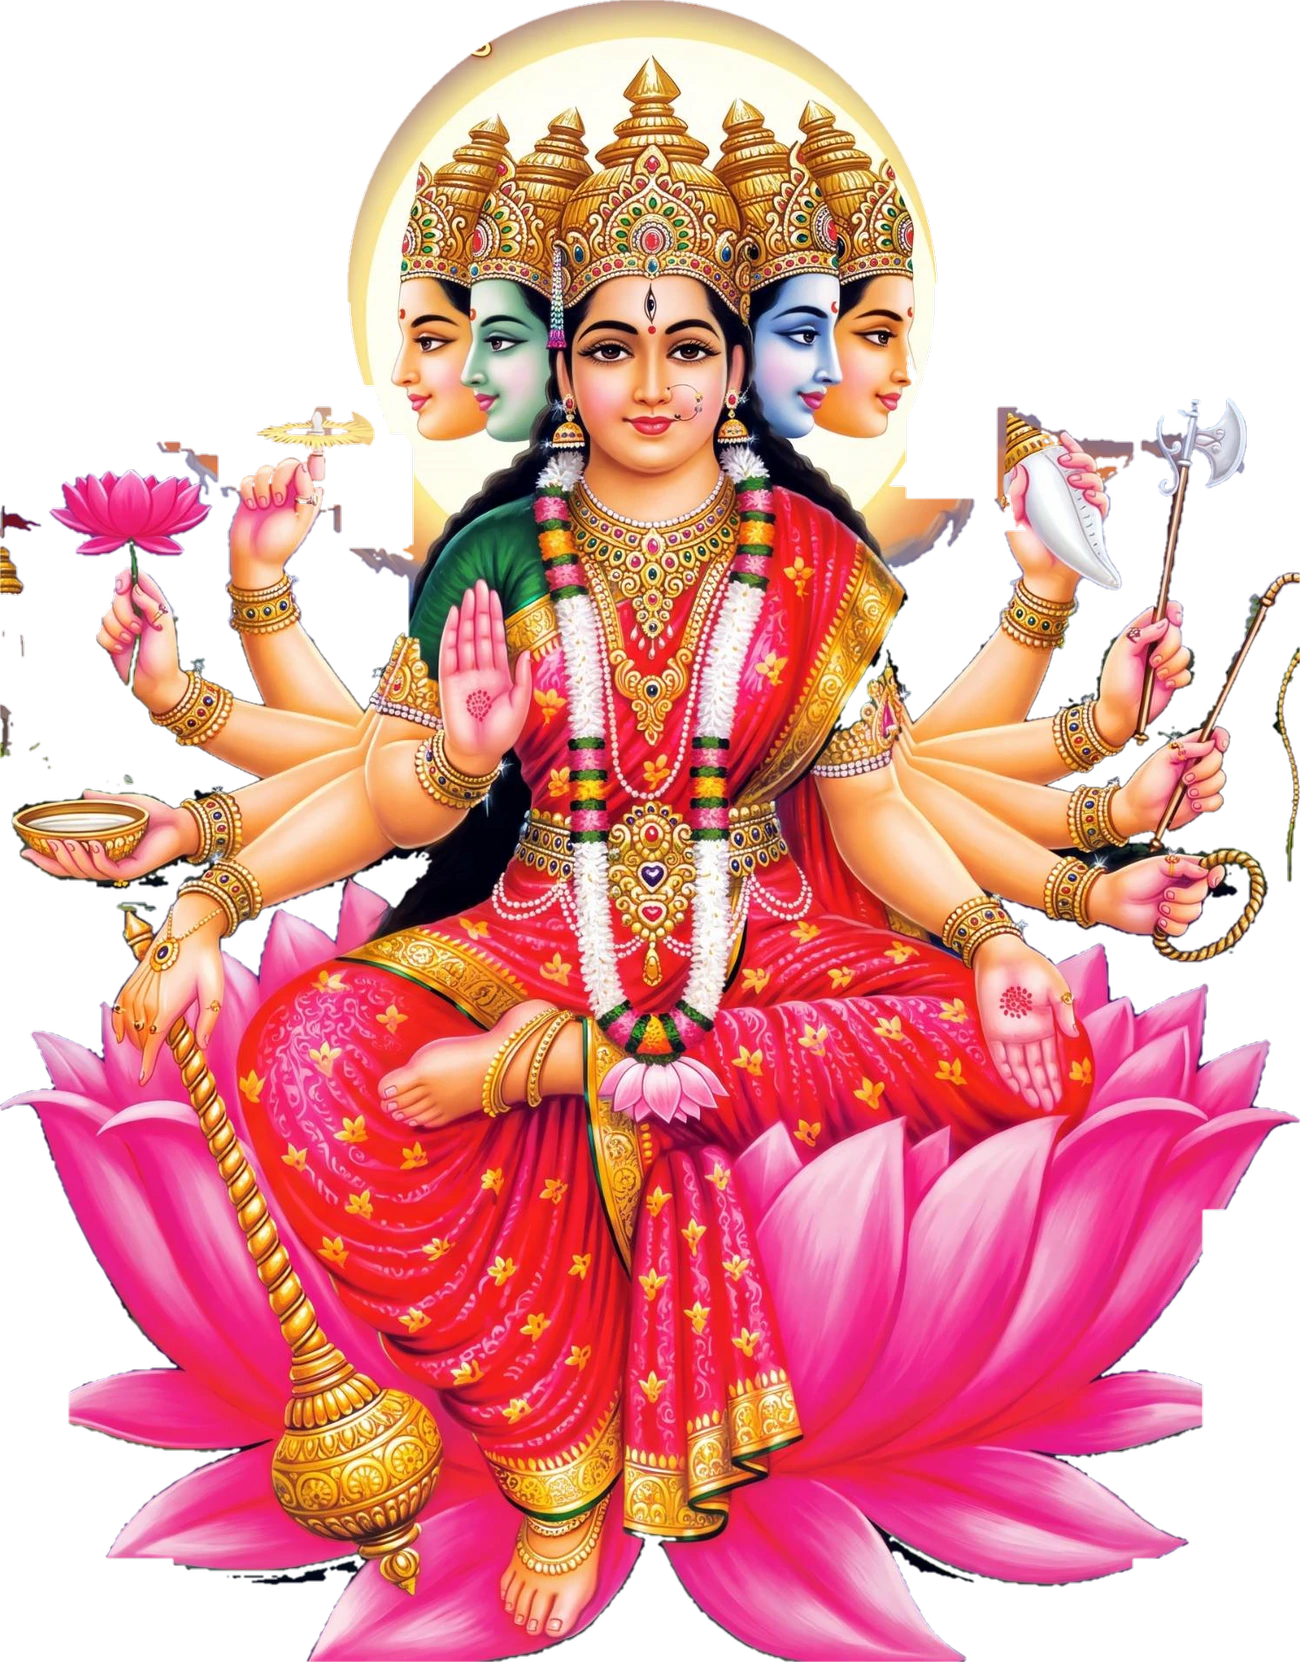
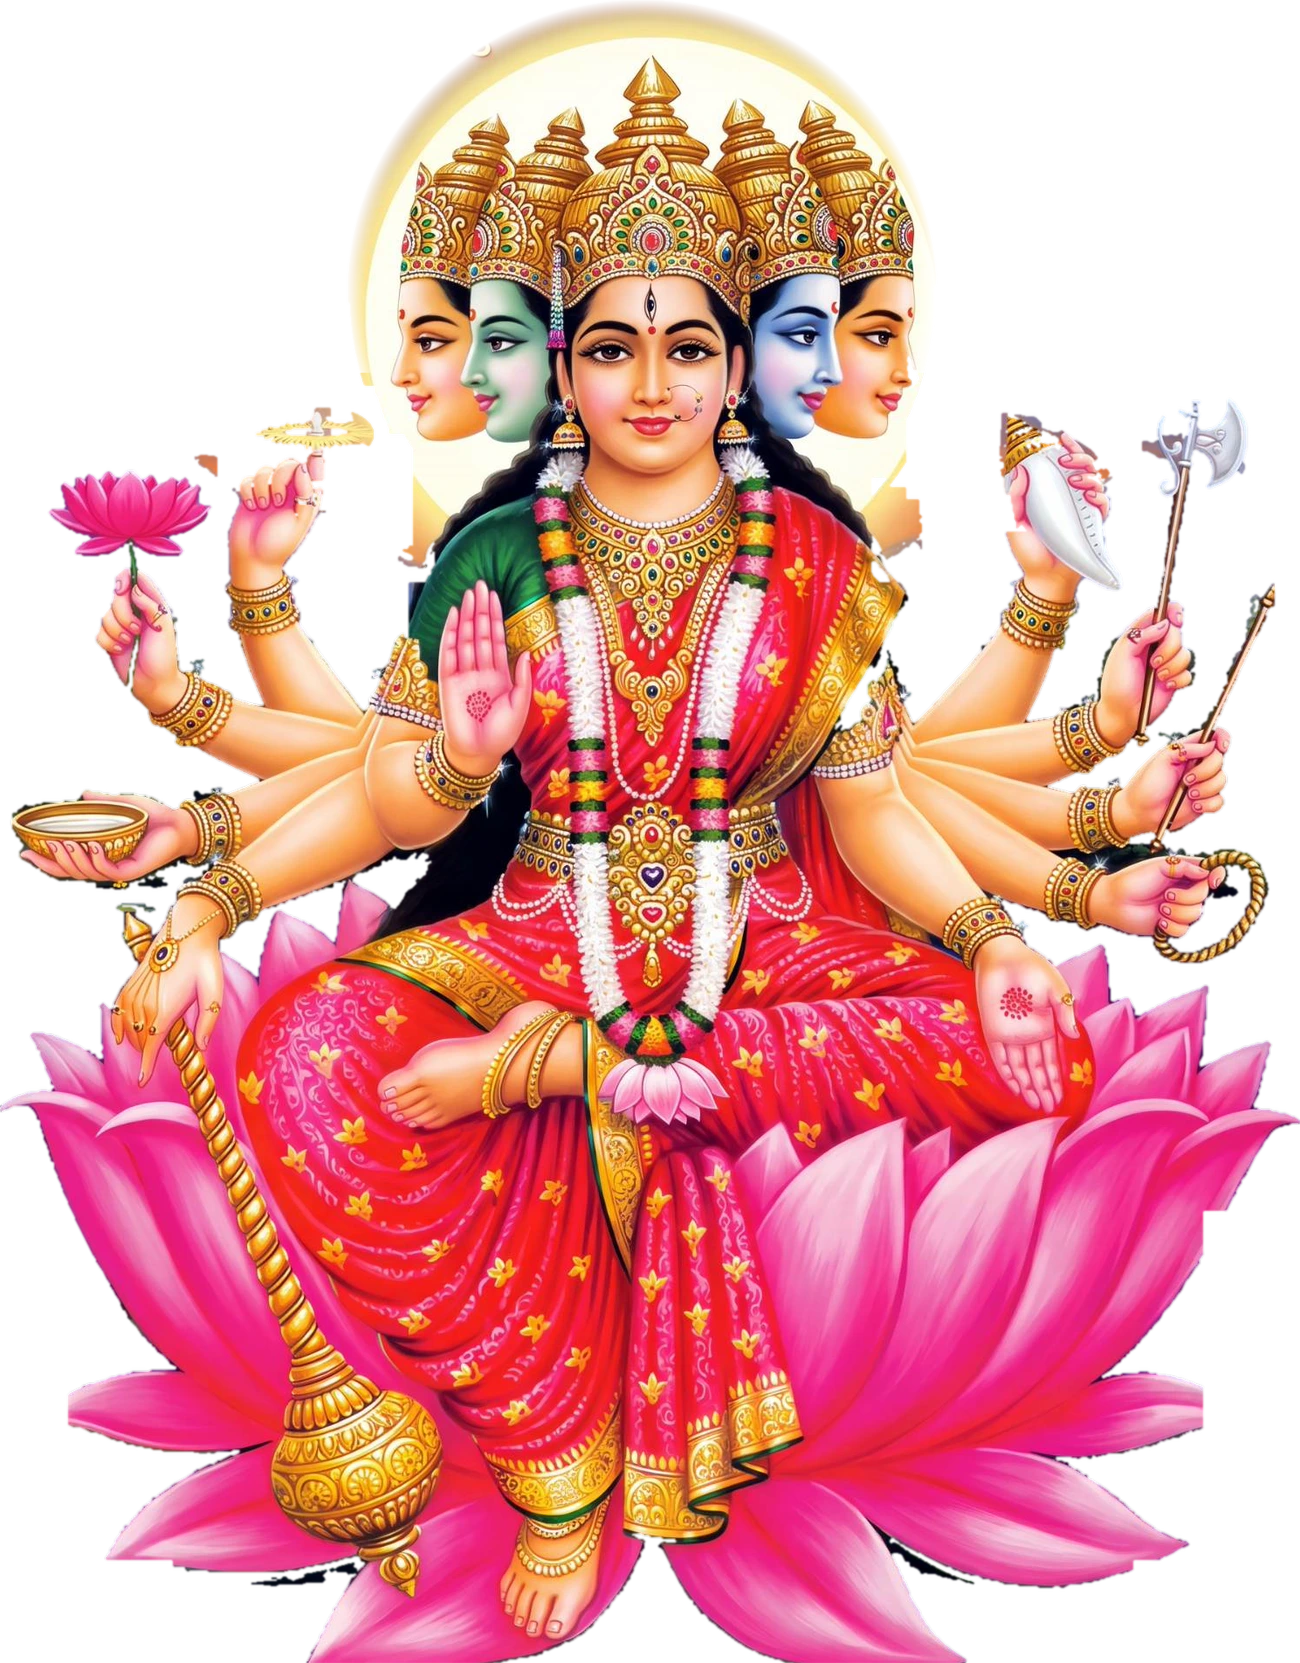
Hero: smoother cutout edges and cleaner surroundings
Soft anti-aliased alpha, edge colours taken from the figure itself (no sky or
landscape fringe), a smooth fade on the halo instead of a hard circular cut,
and the sunset/mountain scraps around the conch, raised hand and shoulders
removed. Aspect updated to match the new file.

diff --git a/src/components/home/SuryaMandalaHero.tsx b/src/components/home/SuryaMandalaHero.tsx
@@ -376,7 +376,7 @@ export function SuryaMandalaHero({ onFailed }: { onFailed?: () => void }) {
     // the landscape and the mantra ring removed so only the Devi remains, on
     // a real alpha channel. The Devi's silhouette is the same shape the
     // earlier cut-out used, so she sits in the middle of the mandala as before.
-    const figureImageAspect = 1100 / 1406
+    const figureImageAspect = 1489 / 1905
     const figureHeight = coreRadius * 3.9
     const divineFigureMaterial = new THREE.MeshBasicMaterial({
       map: new THREE.TextureLoader().load(gayatriDeviUrl, (tex) => {
